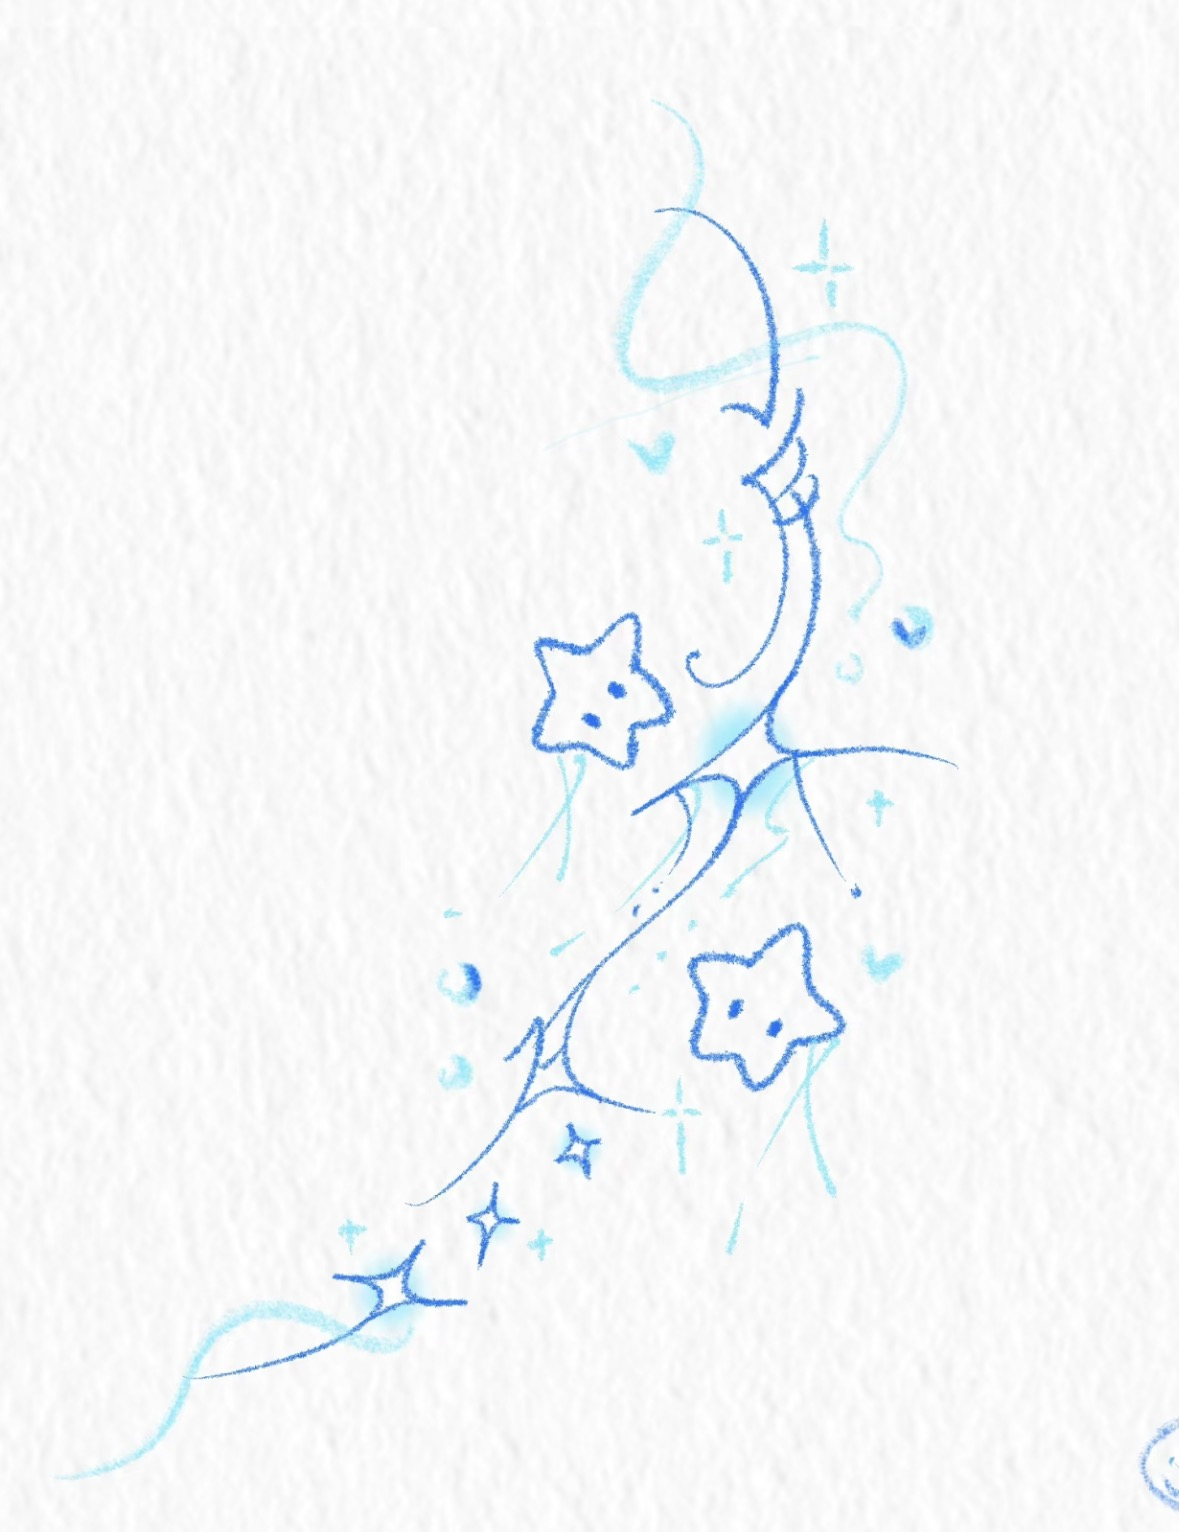
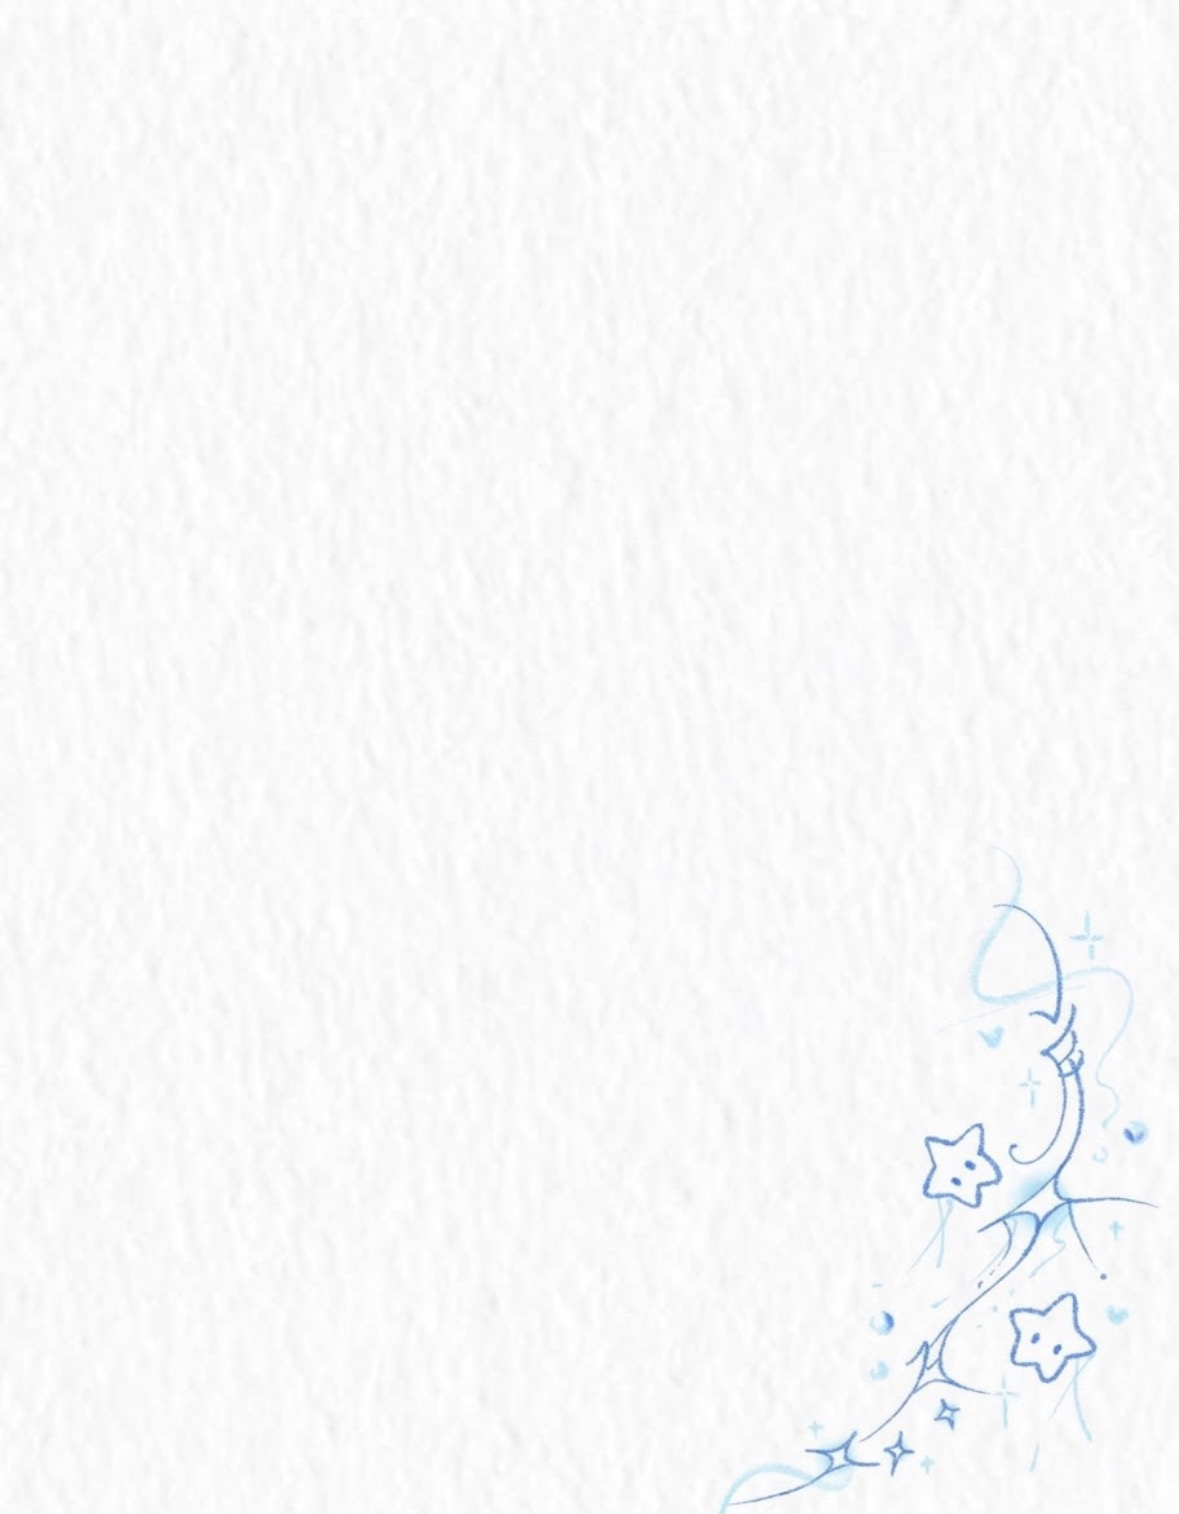
Add files via upload

diff --git a/index.html b/index.html
@@ -77,13 +77,13 @@
         }
         .bg-decor {
             position: absolute;
-            inset: 0;
-            width: 100%;
-            height: 100%;
-            object-fit: cover;
-            object-position: right bottom;
+            bottom: 90px;
+            right: -10px;
+            width: 220px;
+            height: auto;
             pointer-events: none;
-            opacity: 1;
+            opacity: 0.9;
+            mix-blend-mode: multiply;
         }
         body.dark-mode .bg-decor {
             opacity: 0.25;
